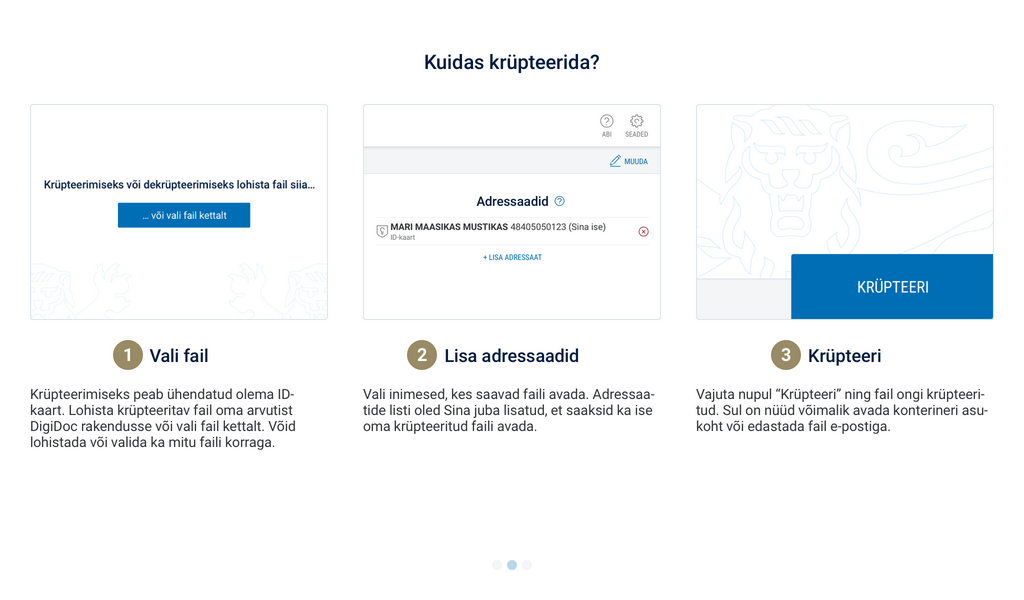
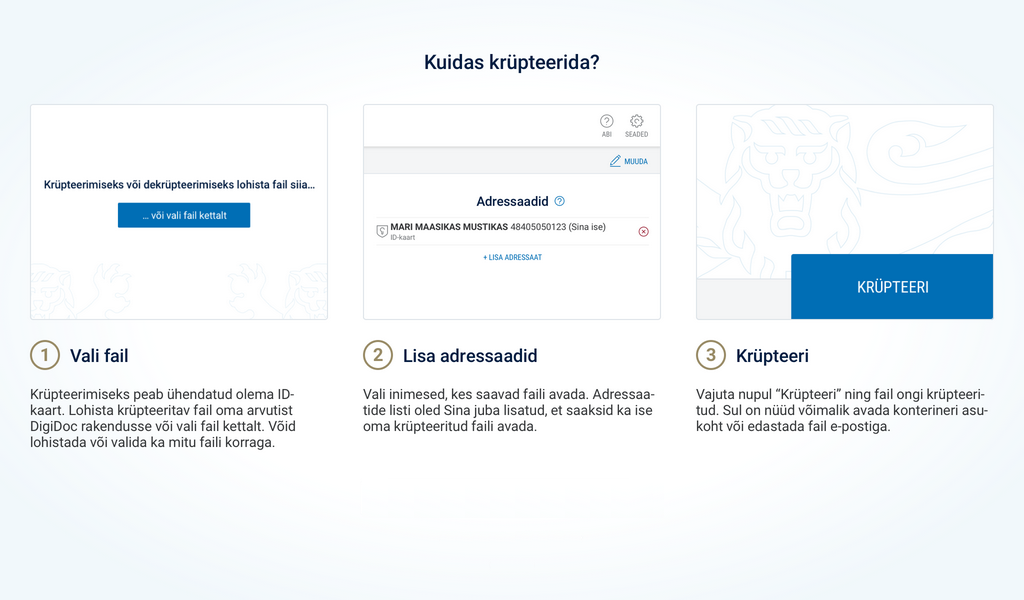
Update screenshots because cradient added. make dots act like toolbuttons.

Changed region(s): [[0.3438, 0.57, 0.5625, 0.63], [0.6875, 0.57, 0.875, 0.63], [0.0312, 0.57, 0.2188, 0.63]]

diff --git a/client/dialogs/FirstRun.cpp b/client/dialogs/FirstRun.cpp
@@ -20,15 +20,25 @@
 
 #include "FirstRun.h"
 #include "ui_FirstRun.h"
+#include <QLineEdit>
 #include "Styles.h"
 
 
 FirstRun::FirstRun(QWidget *parent) :
 	QDialog(parent),
 	ui(new Ui::FirstRun),
-	page(Signing)
+	page(None)
 {
 	ui->setupUi(this);
+	setWindowFlags( Qt::Dialog | Qt::FramelessWindowHint );
+	setWindowModality( Qt::ApplicationModal );
+
+
+	/* Text centering not working */
+//	ui->lang->setEditable(true);
+//	ui->lang->lineEdit()->setDisabled(true);
+//	ui->lang->lineEdit()->setReadOnly(true);
+//	ui->lang->lineEdit()->setAlignment(Qt::AlignCenter);
 
 	ui->lang->addItem("Eesti keel");
 	ui->lang->addItem("Inglise keel");
@@ -49,6 +59,10 @@ FirstRun::FirstRun(QWidget *parent) :
 	ui->next->hide();
 	ui->skip->hide();
 
+	ui->gotoSigning->hide();
+	ui->gotoEncryption->hide();
+	ui->gotoEid->hide();
+
 	connect(ui->continue_2, &QPushButton::clicked, this,
 			[this]()
 			{
@@ -67,27 +81,24 @@ FirstRun::FirstRun(QWidget *parent) :
 	connect(ui->viewSigning, &QPushButton::clicked, this,
 			[this]()
 			{
-				setStyleSheet("image: url(:/images/FirstRunSigning.png);");
-				hideViewButtons();
 				page = Signing;
+				hideViewButtons();
 			}
 	);
 
 	connect(ui->viewEncrypttion, &QPushButton::clicked, this,
 			[this]()
 			{
-				setStyleSheet("image: url(:/images/FirstRunEnctypt.png);");
-				hideViewButtons();
 				page = Encryption;
+				hideViewButtons();
 			}
 		);
 
 	connect(ui->viewEid, &QPushButton::clicked, this,
 			[this]()
 			{
-				setStyleSheet("image: url(:/images/FirstRunMyEID.png);");
-				hideViewButtons(false);
 				page = MyEid;
+				hideViewButtons();
 			}
 	);
 
@@ -98,14 +109,12 @@ FirstRun::FirstRun(QWidget *parent) :
 				switch(page)
 				{
 				case Signing:
-					setStyleSheet("image: url(:/images/FirstRunEnctypt.png);");
-					hideViewButtons();
 					page = Encryption;
+					hideViewButtons();
 					break;
 				case Encryption:
-					setStyleSheet("image: url(:/images/FirstRunMyEID.png);");
-					hideViewButtons(false);
 					page = MyEid;
+					hideViewButtons();
 					break;
 				default:
 					emit close();
@@ -120,23 +129,67 @@ FirstRun::FirstRun(QWidget *parent) :
 				emit close();
 			}
 		);
+
+	connect(ui->gotoSigning, &QPushButton::clicked, this,
+			[this]()
+			{
+				page = Signing;
+				hideViewButtons();
+			}
+		);
+	connect(ui->gotoEncryption, &QPushButton::clicked, this,
+			[this]()
+			{
+				page = Encryption;
+				hideViewButtons();
+			}
+		);
+	connect(ui->gotoEid, &QPushButton::clicked, this,
+			[this]()
+			{
+				page = MyEid;
+				hideViewButtons();
+			}
+		);
+
 }
 
-void FirstRun::hideViewButtons(bool showSkipe)
+void FirstRun::hideViewButtons()
 {
-	if(!showSkipe)
-		ui->next->setText("SISENE RAKENDUSSE");
-
-	ui->continue_2->hide();
 	ui->viewSigning->hide();
 	ui->viewEncrypttion->hide();
 	ui->viewEid->hide();
-
 	ui->next->show();
-	if(showSkipe)
+
+	ui->gotoSigning->show();
+	ui->gotoEncryption->show();
+	ui->gotoEid->show();
+
+	QString normal = "border: none; image: url(:/images/icon_dot.png);";
+	QString active = "border: none; image: url(:/images/icon_dot_active.png);";
+
+	ui->gotoSigning->setStyleSheet(page == Signing ? active : normal);
+	ui->gotoEncryption->setStyleSheet(page == Encryption ? active : normal);
+	ui->gotoEid->setStyleSheet(page == MyEid ? active : normal);
+
+
+	switch (page) {
+	case Signing:
+		setStyleSheet("image: url(:/images/FirstRunSigning.png);");
+		ui->next->setText("VAATA JÄRGMIST TUTVUSTUST");
 		ui->skip->show();
-	else
+		break;
+	case Encryption:
+		setStyleSheet("image: url(:/images/FirstRunEnctypt.png);");
+		ui->next->setText("VAATA JÄRGMIST TUTVUSTUST");
+		ui->skip->show();
+		break;
+	default:
+		setStyleSheet("image: url(:/images/FirstRunMyEID.png);");
+		ui->next->setText("SISENE RAKENDUSSE");
 		ui->skip->hide();
+		break;
+	}
 }
 
 FirstRun::~FirstRun()

diff --git a/client/dialogs/FirstRun.h b/client/dialogs/FirstRun.h
@@ -36,12 +36,13 @@ public:
 	~FirstRun();
 
 private:
-	void hideViewButtons(bool showSkipe = true);
+	void hideViewButtons();
 
 	Ui::FirstRun *ui;
 
 	enum View
 	{
+		None,
 		Signing,
 		Encryption,
 		MyEid
